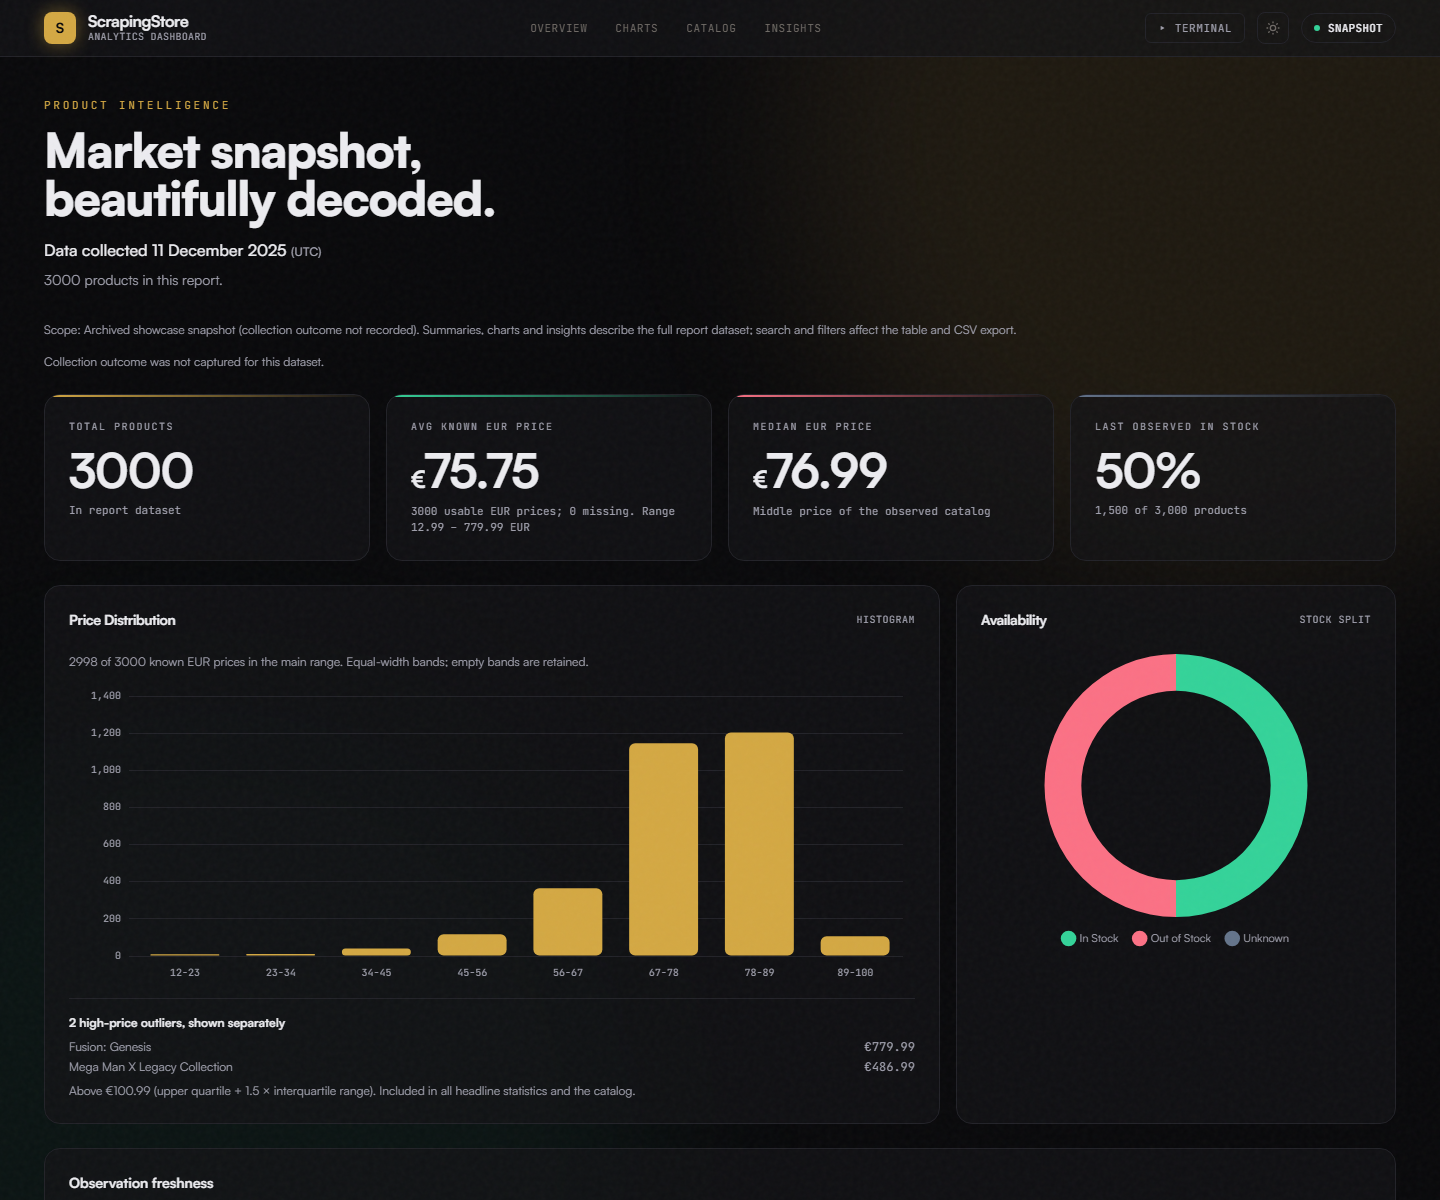
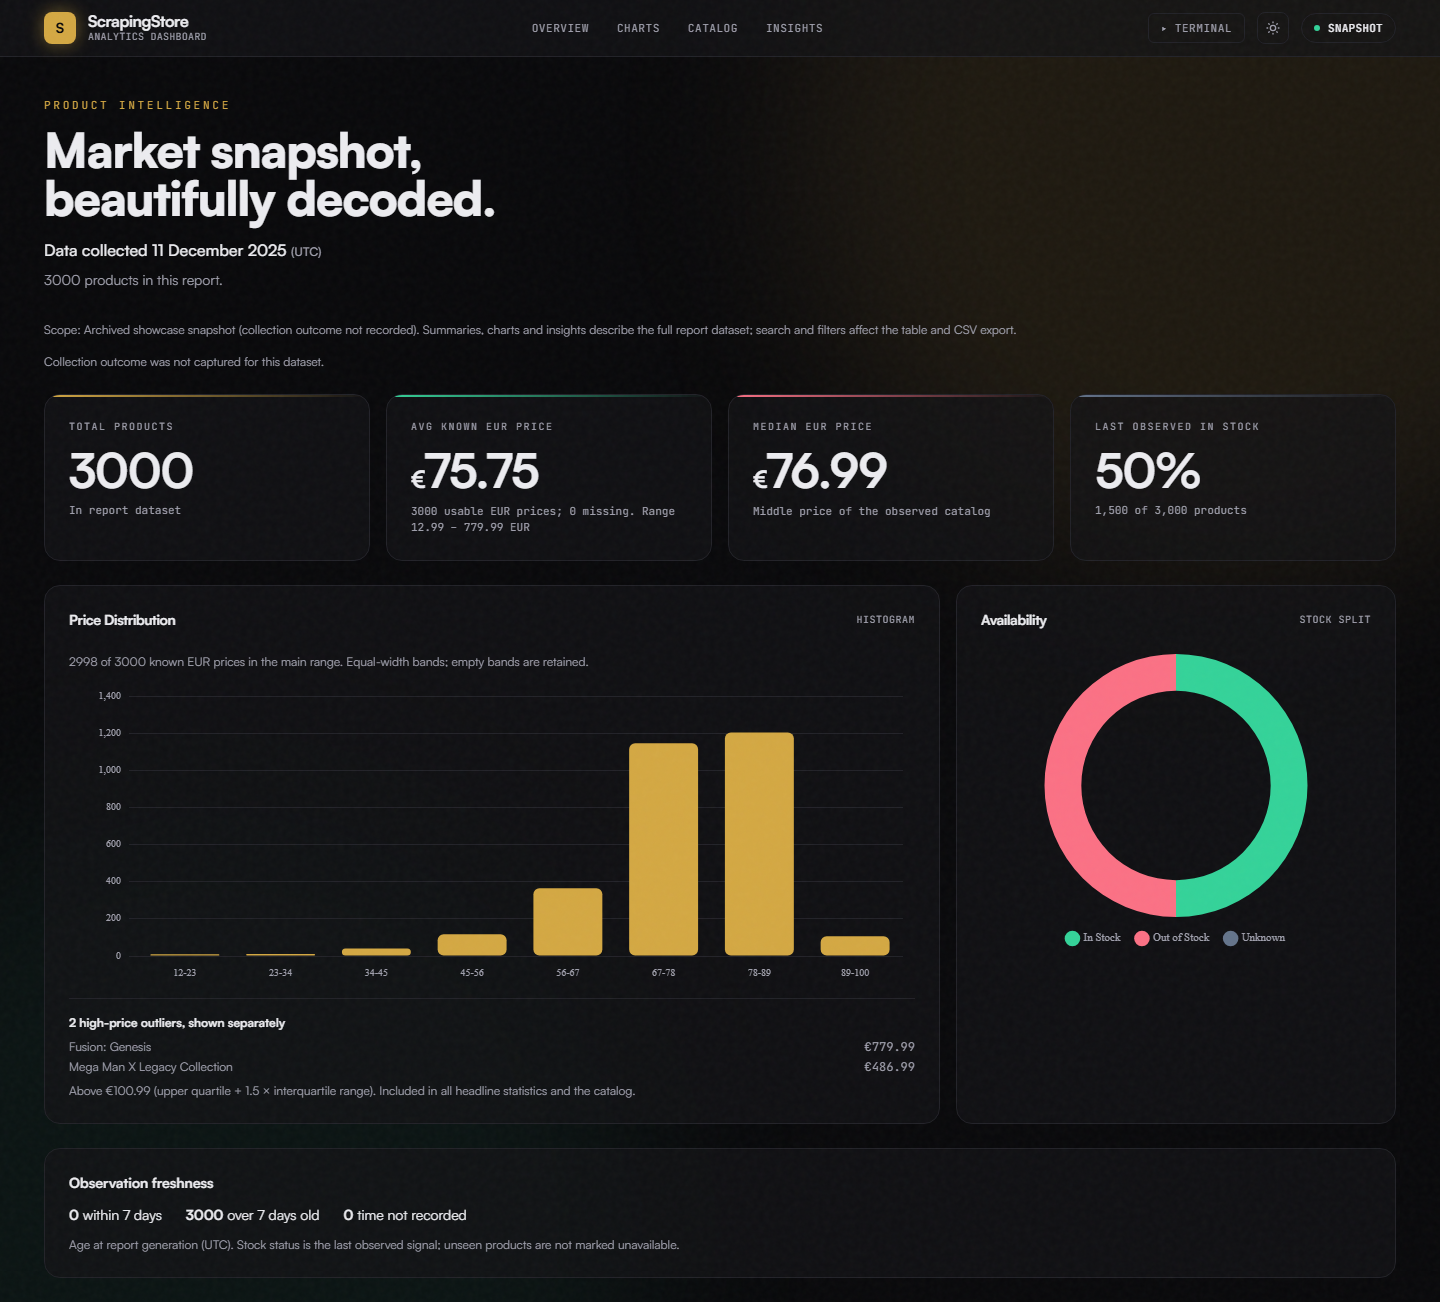
Fix README architecture and refresh dashboard previews

diff --git a/scripts/capture_readme.py b/scripts/capture_readme.py
@@ -1,0 +1,98 @@
+"""Capture README images from the archived demo, without collecting new data.
+
+Run ``python -m scripts.refresh_demo`` first if templates have changed, then
+``python -m scripts.capture_readme``. Requires Playwright Chromium and internet
+access for the demo's web fonts and CDN libraries.
+"""
+
+from pathlib import Path
+
+from playwright.sync_api import expect, sync_playwright
+
+ROOT = Path(__file__).resolve().parents[1]
+ASSETS = ROOT / "assets"
+
+
+def run():
+    with sync_playwright() as playwright:
+        browser = playwright.chromium.launch()
+        context = browser.new_context(
+            viewport={"width": 1440, "height": 1400},
+            device_scale_factor=1,
+            color_scheme="dark",
+            reduced_motion="reduce",
+            locale="en-GB",
+            timezone_id="UTC",
+        )
+        page = context.new_page()
+        errors = []
+        page.on("pageerror", lambda error: errors.append(str(error)))
+        page.on(
+            "requestfailed",
+            lambda request: errors.append(f"{request.url}: {request.failure}"),
+        )
+        try:
+            page.goto((ROOT / "docs/index.html").as_uri(), wait_until="networkidle")
+            page.evaluate("document.fonts.ready")
+            page.wait_for_function(
+                "typeof Chart !== 'undefined' && Chart.getChart('priceChart')"
+                " && Chart.getChart('availChart')"
+            )
+            expect(page.locator("#grid-table tbody tr")).to_have_count(12)
+            expect(page.locator("[x-show='showSplash']")).to_be_hidden()
+            expect(page.locator("#kpi-total")).to_have_text("3000")
+            # Include the complete freshness panel below the charts.
+            freshness = page.locator("#freshness").bounding_box()
+            page.set_viewport_size(
+                {
+                    "width": 1440,
+                    "height": round(freshness["y"] + freshness["height"] + 24),
+                }
+            )
+            page.screenshot(
+                path=str(ASSETS / "dashboard_modern.png"), animations="disabled"
+            )
+
+            page.get_by_label("Search catalog").fill("Mario")
+            page.get_by_label("Filter by availability").select_option("In Stock")
+            page.get_by_label("Minimum price").fill("50")
+            page.get_by_label("Maximum price").fill("90")
+            expect(page.locator("#grid-table tbody tr")).to_have_count(12)
+            expect(page.locator("#grid-table tbody tr").first).to_contain_text("Mario")
+            expect(page.locator("#grid-table tbody")).to_contain_text(
+                "Observed over 7 days ago"
+            )
+            page.locator("#catalog").screenshot(
+                path=str(ASSETS / "dashboard_catalog.jpg"),
+                type="jpeg",
+                quality=90,
+                animations="disabled",
+            )
+
+            page.set_viewport_size({"width": 1440, "height": 1000})
+            page.goto(
+                (ROOT / "docs/dashboard_terminal.html").as_uri(),
+                wait_until="networkidle",
+            )
+            page.evaluate("document.fonts.ready")
+            expect(page.locator("#t-count")).to_have_text("3000")
+            expect(page.locator("#log-feed")).to_contain_text(
+                "Observed over 7 days ago"
+            )
+            expect(page.locator("#term-output")).to_contain_text("Outcome not captured")
+            page.wait_for_function(
+                "document.getElementById('nav-clock').textContent !== '--:--:--'"
+            )
+            page.screenshot(
+                path=str(ASSETS / "dashboard_terminal.png"), animations="disabled"
+            )
+            if errors:
+                raise RuntimeError("Dashboard JavaScript errors: " + "; ".join(errors))
+        finally:
+            context.close()
+            browser.close()
+    print("Captured modern overview, filtered catalog and terminal screenshots.")
+
+
+if __name__ == "__main__":
+    run()

diff --git a/README.md b/README.md
@@ -17,9 +17,33 @@ Version **2.0.1** adds saved-run comparisons and visible observation freshness. 
 
 The demo preserves 3,000 archived observations from December 2025. It demonstrates the interface, not current market prices or stock. Both themes display the age of that evidence.
 
-## 📸 Dashboard Preview
+## 📸 Dashboard Previews
 
-![Modern Dashboard](assets/dashboard_modern.png)
+### Modern analytics
+
+Price distribution, high-price outliers, availability and observation freshness in one view. Switch between dark and light themes in the [interactive demo](https://tzii.github.io/ScrapingStore/).
+
+![Current modern dashboard in dark mode, showing catalog statistics, price and availability charts, and observation freshness](assets/dashboard_modern.png)
+
+<details>
+<summary><strong>Explore the catalog: search, filters and CSV export</strong></summary>
+
+Search by product name, price or availability; combine stock and price filters; export every matching row across all pages. Each row shows when the product was observed and how old that evidence is.
+
+![Current product catalog filtered to Mario titles last observed in stock, with price bounds, collection timestamps, freshness labels and CSV export](assets/dashboard_catalog.jpg)
+
+</details>
+
+<details>
+<summary><strong>Explore the terminal dashboard</strong></summary>
+
+The [terminal view](https://tzii.github.io/ScrapingStore/dashboard_terminal.html) presents the same snapshot with an ASCII price histogram, summary statistics, keyword counts and an observation replay.
+
+![Current terminal dashboard with observation freshness, ASCII price distribution, outlier details and archived observation replay](assets/dashboard_terminal.png)
+
+</details>
+
+Screenshots show the archived demo: **3,000 observations collected on 11 December 2025**. Availability is the last observed signal; freshness is assessed when the report is generated.
 
 > **Made by Simone** — Student Project
 
@@ -32,7 +56,7 @@ The demo preserves 3,000 archived observations from December 2025. It demonstrat
 | **Web Scraping** | Playwright (headless browser), BeautifulSoup, async/await, pagination handling |
 | **Data Cleaning** | Normalization, missing-value provenance, source identity deduplication |
 | **Visualization** | Chart.js, Grid.js, Alpine.js, Jinja2 HTML dashboards (modern + terminal) |
-| **Database** | SQLModel ORM, SQLite, upsert logic |
+| **Database & History** | SQLModel, SQLite, atomic upserts, immutable run observations, saved-run comparisons |
 | **Data Export** | Power BI-ready CSV (UTF-8 BOM), automated pipeline |
 | **DevOps** | Docker, GitHub Actions, GitLab CI, pre-commit hooks, pytest |
 
@@ -41,15 +65,18 @@ The demo preserves 3,000 archived observations from December 2025. It demonstrat
 ## 🏗 Architecture
 
 ```mermaid
-graph TD
-    User[User] --> CLI[CLI (main.py)]
-    CLI --> Scraper[Scraper Module]
-    Scraper -->|Structured Products| Cleaner[Cleaner Module]
-    Cleaner -->|Validated Products| DB[Database (SQLModel)]
-    DB -->|Query| Dashboard[Dashboard Generator]
-    DB -->|Export| CSV[CSV File]
-    Dashboard -->|HTML| Browser[Browser View]
+flowchart TD
+    CLI["CLI (main.py)"] --> Scraper["Scrapers: Playwright or Requests + BeautifulSoup"]
+    Scraper -->|Products and collection outcomes| Cleaner["Evidence-aware cleaning"]
+    Cleaner --> DB[("SQLite (SQLModel): catalog, runs and observations")]
+    DB -->|Current catalog or saved run| Snapshot["Shared report snapshot"]
+    Snapshot --> Modern["Modern HTML dashboard"]
+    Snapshot --> Terminal["Terminal HTML dashboard"]
+    DB -->|Current catalog| CSV["Power BI CSV + manifest"]
+    DB -->|Saved run pair| Compare["Change report (JSON)"]
 ```
+
+Both dashboard themes use the same report snapshot. Collection outcomes control automatic report and CSV generation; saved runs can also be inspected, compared and rendered later.
 
 ---
 
@@ -57,10 +84,11 @@ graph TD
 
 This project scrapes product data from the [Oxylabs Sandbox E-commerce](https://sandbox.oxylabs.io/products) website and processes it through a complete data pipeline:
 
-1. **Web Scraping** - Extract ~3000 products using Playwright browser automation
-2. **Data Cleaning** - Normalize and deduplicate data with Pandas
-3. **Visualization** - Interactive dashboards with Chart.js and Grid.js
-4. **Power BI Export** - Generate analysis-ready CSV files
+1. **Collect** - Scrape a page sample or the full source with Playwright or Requests, recording page outcomes and collection scope.
+2. **Clean** - Normalize names and availability, preserve unknown prices and deduplicate by source identity.
+3. **Store & Compare** - Update the SQLite catalog, retain immutable observations and compare saved runs.
+4. **Explore** - Generate modern and terminal dashboards with shared statistics, catalog search and observation freshness.
+5. **Export** - Produce Power BI-ready CSV files with collection provenance.
 
 ---
 
@@ -89,6 +117,10 @@ ScrapingStore/
 │   ├── test_models.py
 │   └── test_cli.py
 ├── data/                           # Output directory (gitignored)
+├── docs/                           # Archived demo for GitHub Pages
+├── assets/                         # Logo and current UI screenshots
+├── scripts/                        # Demo refresh, screenshot capture and wheel checks
+├── comparison.py                   # Evidence-aware saved-run comparisons
 ├── config.py                       # Centralized configuration
 ├── database.py                     # SQLModel database manager
 ├── models.py                       # Pydantic/SQLModel data models with validation
@@ -262,6 +294,15 @@ Both themes count observations within seven days, over seven days old, and witho
 
 To refresh the archived showcase with the current templates while preserving its collection times, run `python -m scripts.refresh_demo` from the repository root. To replace it with a newly collected catalog, use `scrapingstore generate-report --docs` after a successful collection.
 
+To update the README screenshots after changing the UI, install Playwright Chromium and run:
+
+```bash
+python -m scripts.refresh_demo
+python -m scripts.capture_readme
+```
+
+The capture script opens the checked-in demo in Chromium, waits for fonts, charts and catalog rows, and captures the overview, a filtered catalog and the terminal view. Internet access is required for the demo's CDN libraries and web fonts.
+
 The browser collector enforces a wall-clock collection deadline. Static Requests timeouts bound socket inactivity: a slowly streaming response may return after the configured run deadline. Its evidence is retained and the run is marked incomplete rather than reported as successful completion.
 
 ### Running Tests
@@ -327,10 +368,7 @@ The browser tests serve pinned Alpine.js, Grid.js and Chart.js dependencies loca
 - Price must be finite and non-negative; name must not be empty
 - Automatic UTC timestamps on creation
 
-#### Terminal Dashboard Mode
-The project also includes a retro-style terminal dashboard for CLI enthusiasts:
-
-![Terminal Dashboard](assets/dashboard_terminal.png)
+See the [dashboard previews](#-dashboard-previews) for current screenshots of both views and the catalog controls.
 
 ---
 
